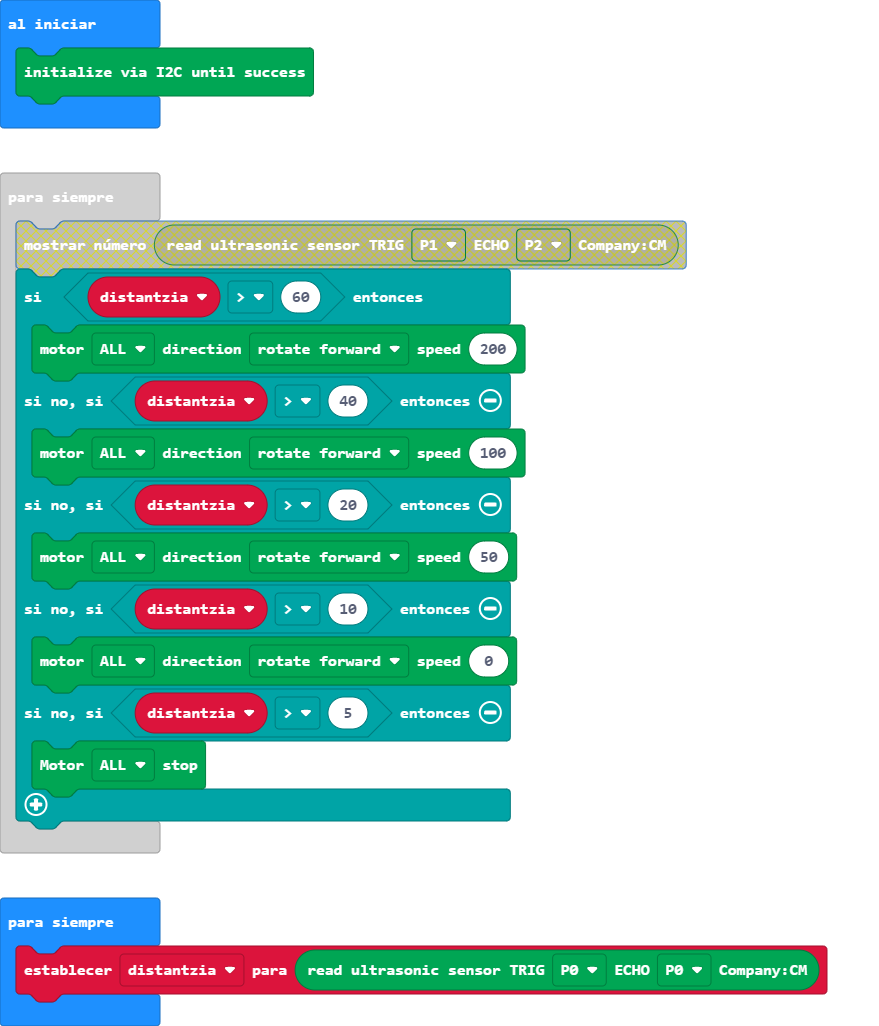
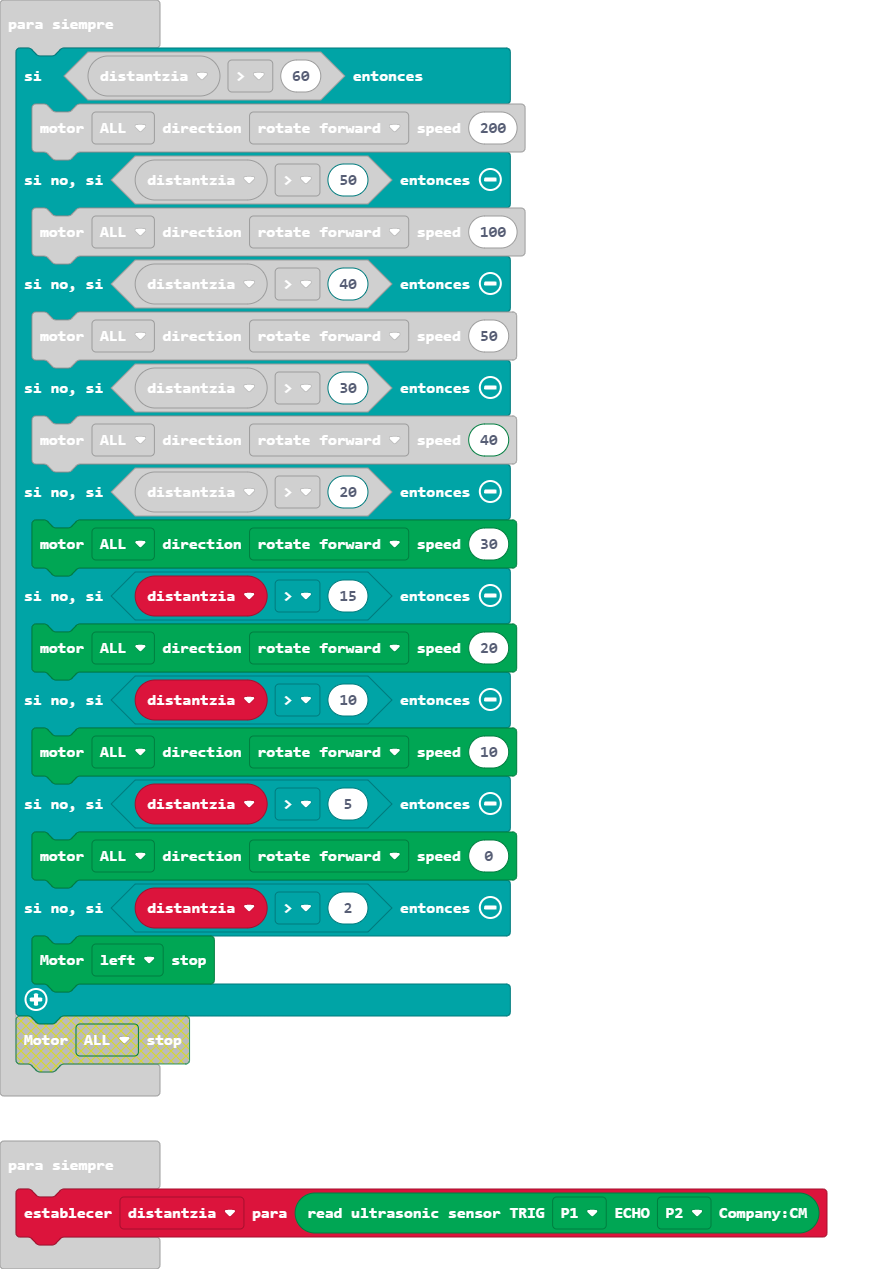
Actualizar main.blocks, main.ts

diff --git a/main.ts b/main.ts
@@ -3,16 +3,24 @@ DFRobotMaqueenPlus.I2CInit()
 basic.forever(function () {
     if (distantzia > 60) {
         DFRobotMaqueenPlus.mototRun(Motors.ALL, Dir.CW, 200)
-    } else if (distantzia > 40) {
+    } else if (distantzia > 50) {
         DFRobotMaqueenPlus.mototRun(Motors.ALL, Dir.CW, 100)
-    } else if (distantzia > 20) {
+    } else if (distantzia > 40) {
         DFRobotMaqueenPlus.mototRun(Motors.ALL, Dir.CW, 50)
+    } else if (distantzia > 30) {
+        DFRobotMaqueenPlus.mototRun(Motors.ALL, Dir.CW, 40)
+    } else if (distantzia > 20) {
+        DFRobotMaqueenPlus.mototRun(Motors.ALL, Dir.CW, 30)
+    } else if (distantzia > 15) {
+        DFRobotMaqueenPlus.mototRun(Motors.ALL, Dir.CW, 20)
     } else if (distantzia > 10) {
-        DFRobotMaqueenPlus.mototRun(Motors.ALL, Dir.CW, 0)
+        DFRobotMaqueenPlus.mototRun(Motors.ALL, Dir.CW, 10)
     } else if (distantzia > 5) {
-        DFRobotMaqueenPlus.mototStop(Motors.ALL)
+        DFRobotMaqueenPlus.mototRun(Motors.ALL, Dir.CW, 0)
+    } else if (distantzia > 2) {
+        DFRobotMaqueenPlus.mototStop(Motors.M1)
     }
 })
 basic.forever(function () {
-    distantzia = DFRobotMaqueenPlus.ultraSonic(PIN.P0, PIN.P0)
+    distantzia = DFRobotMaqueenPlus.ultraSonic(PIN.P1, PIN.P2)
 })
